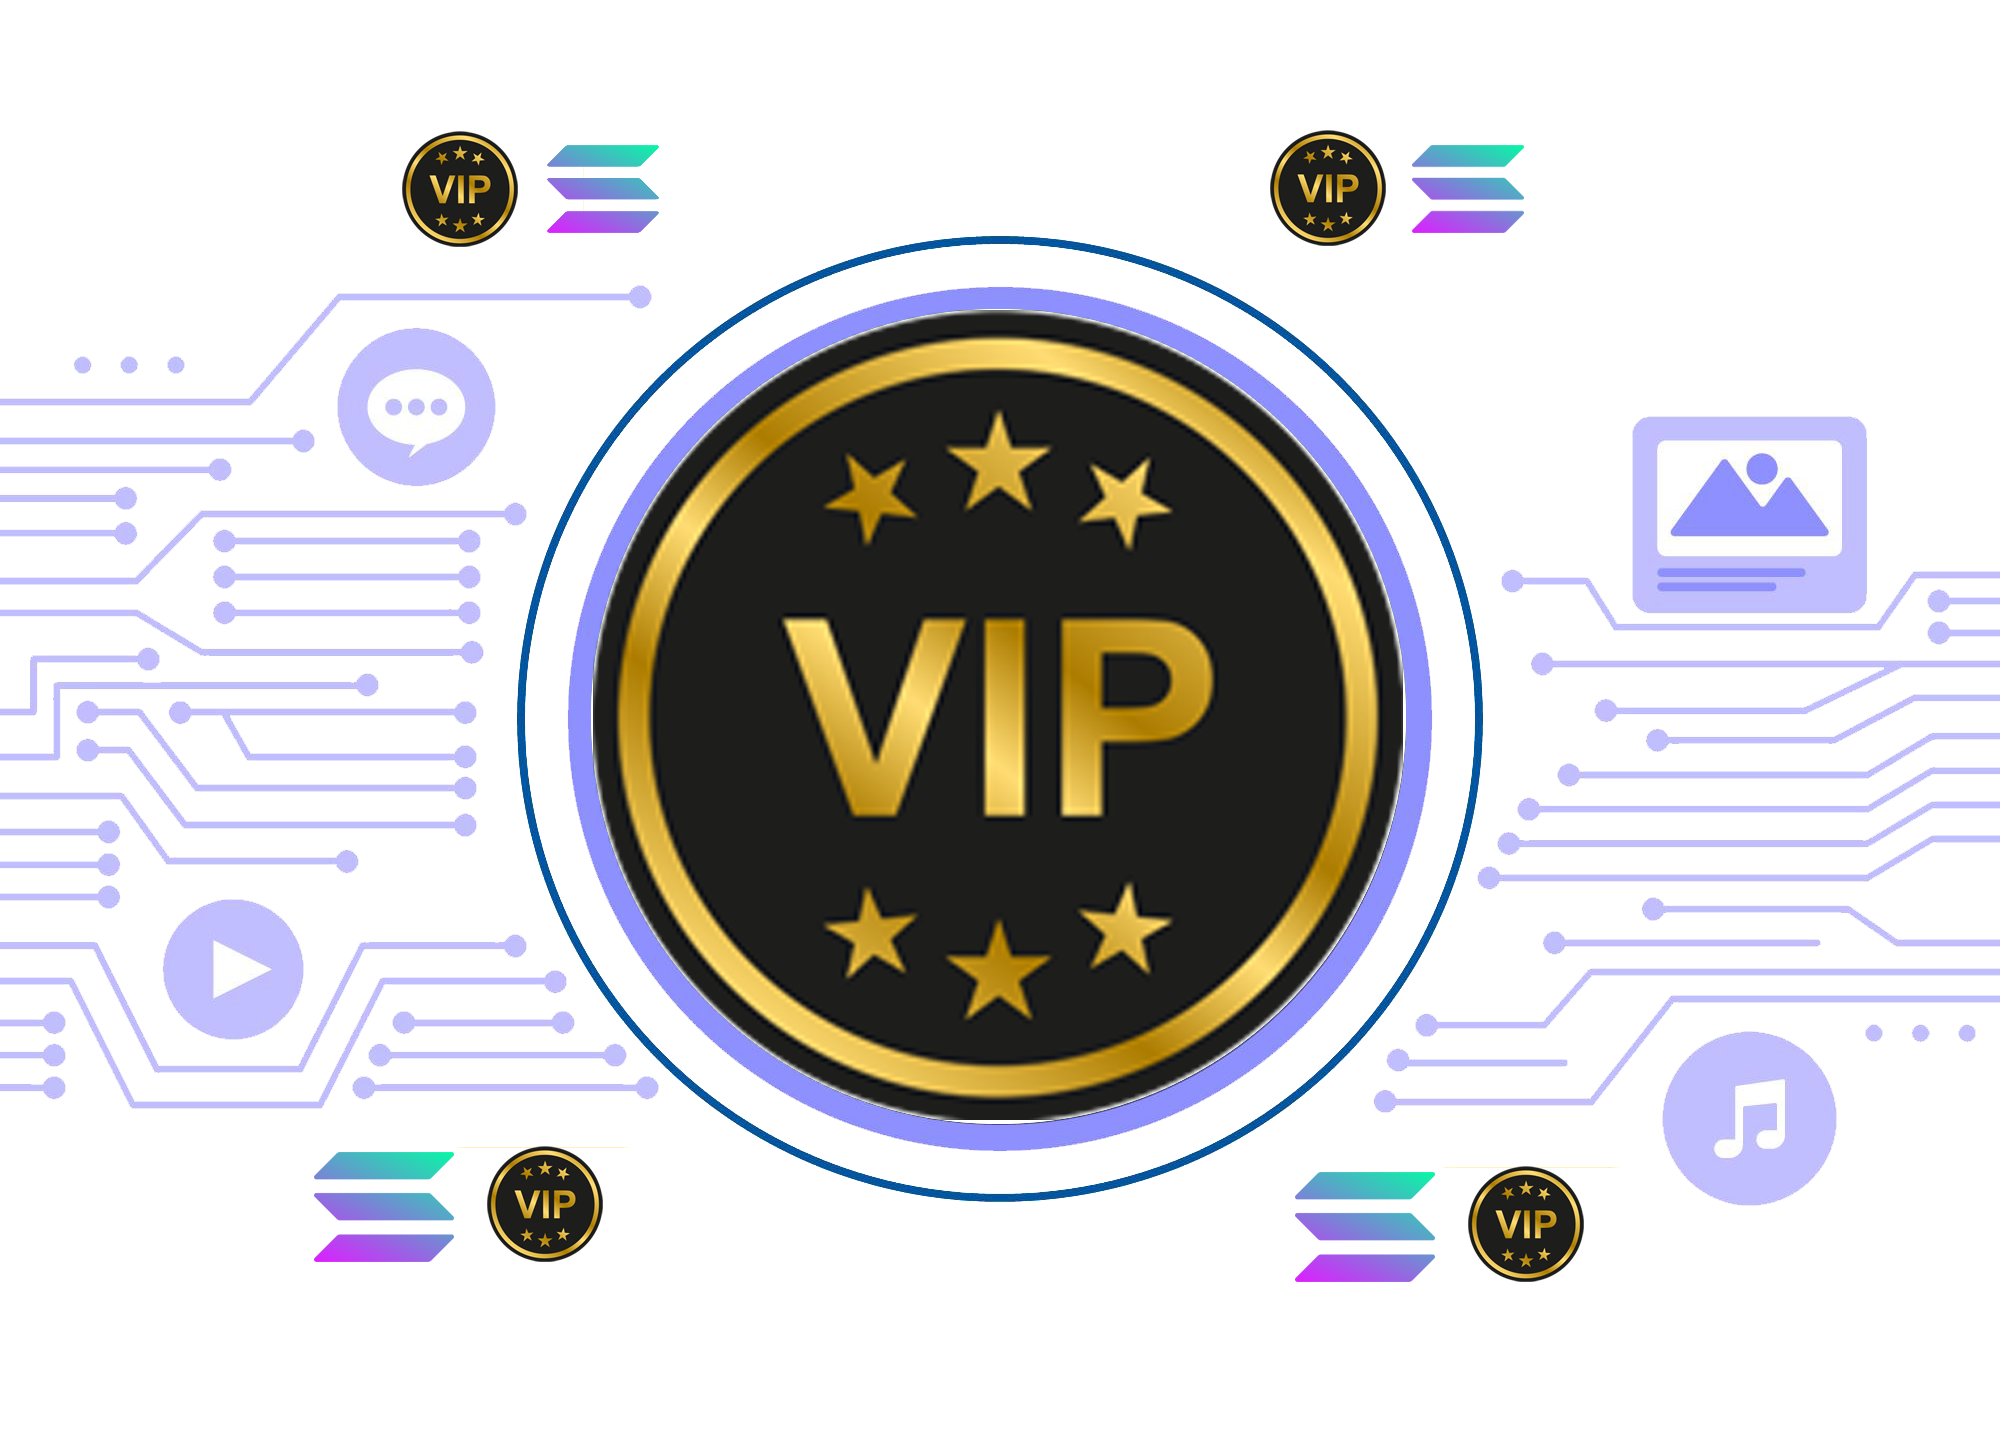
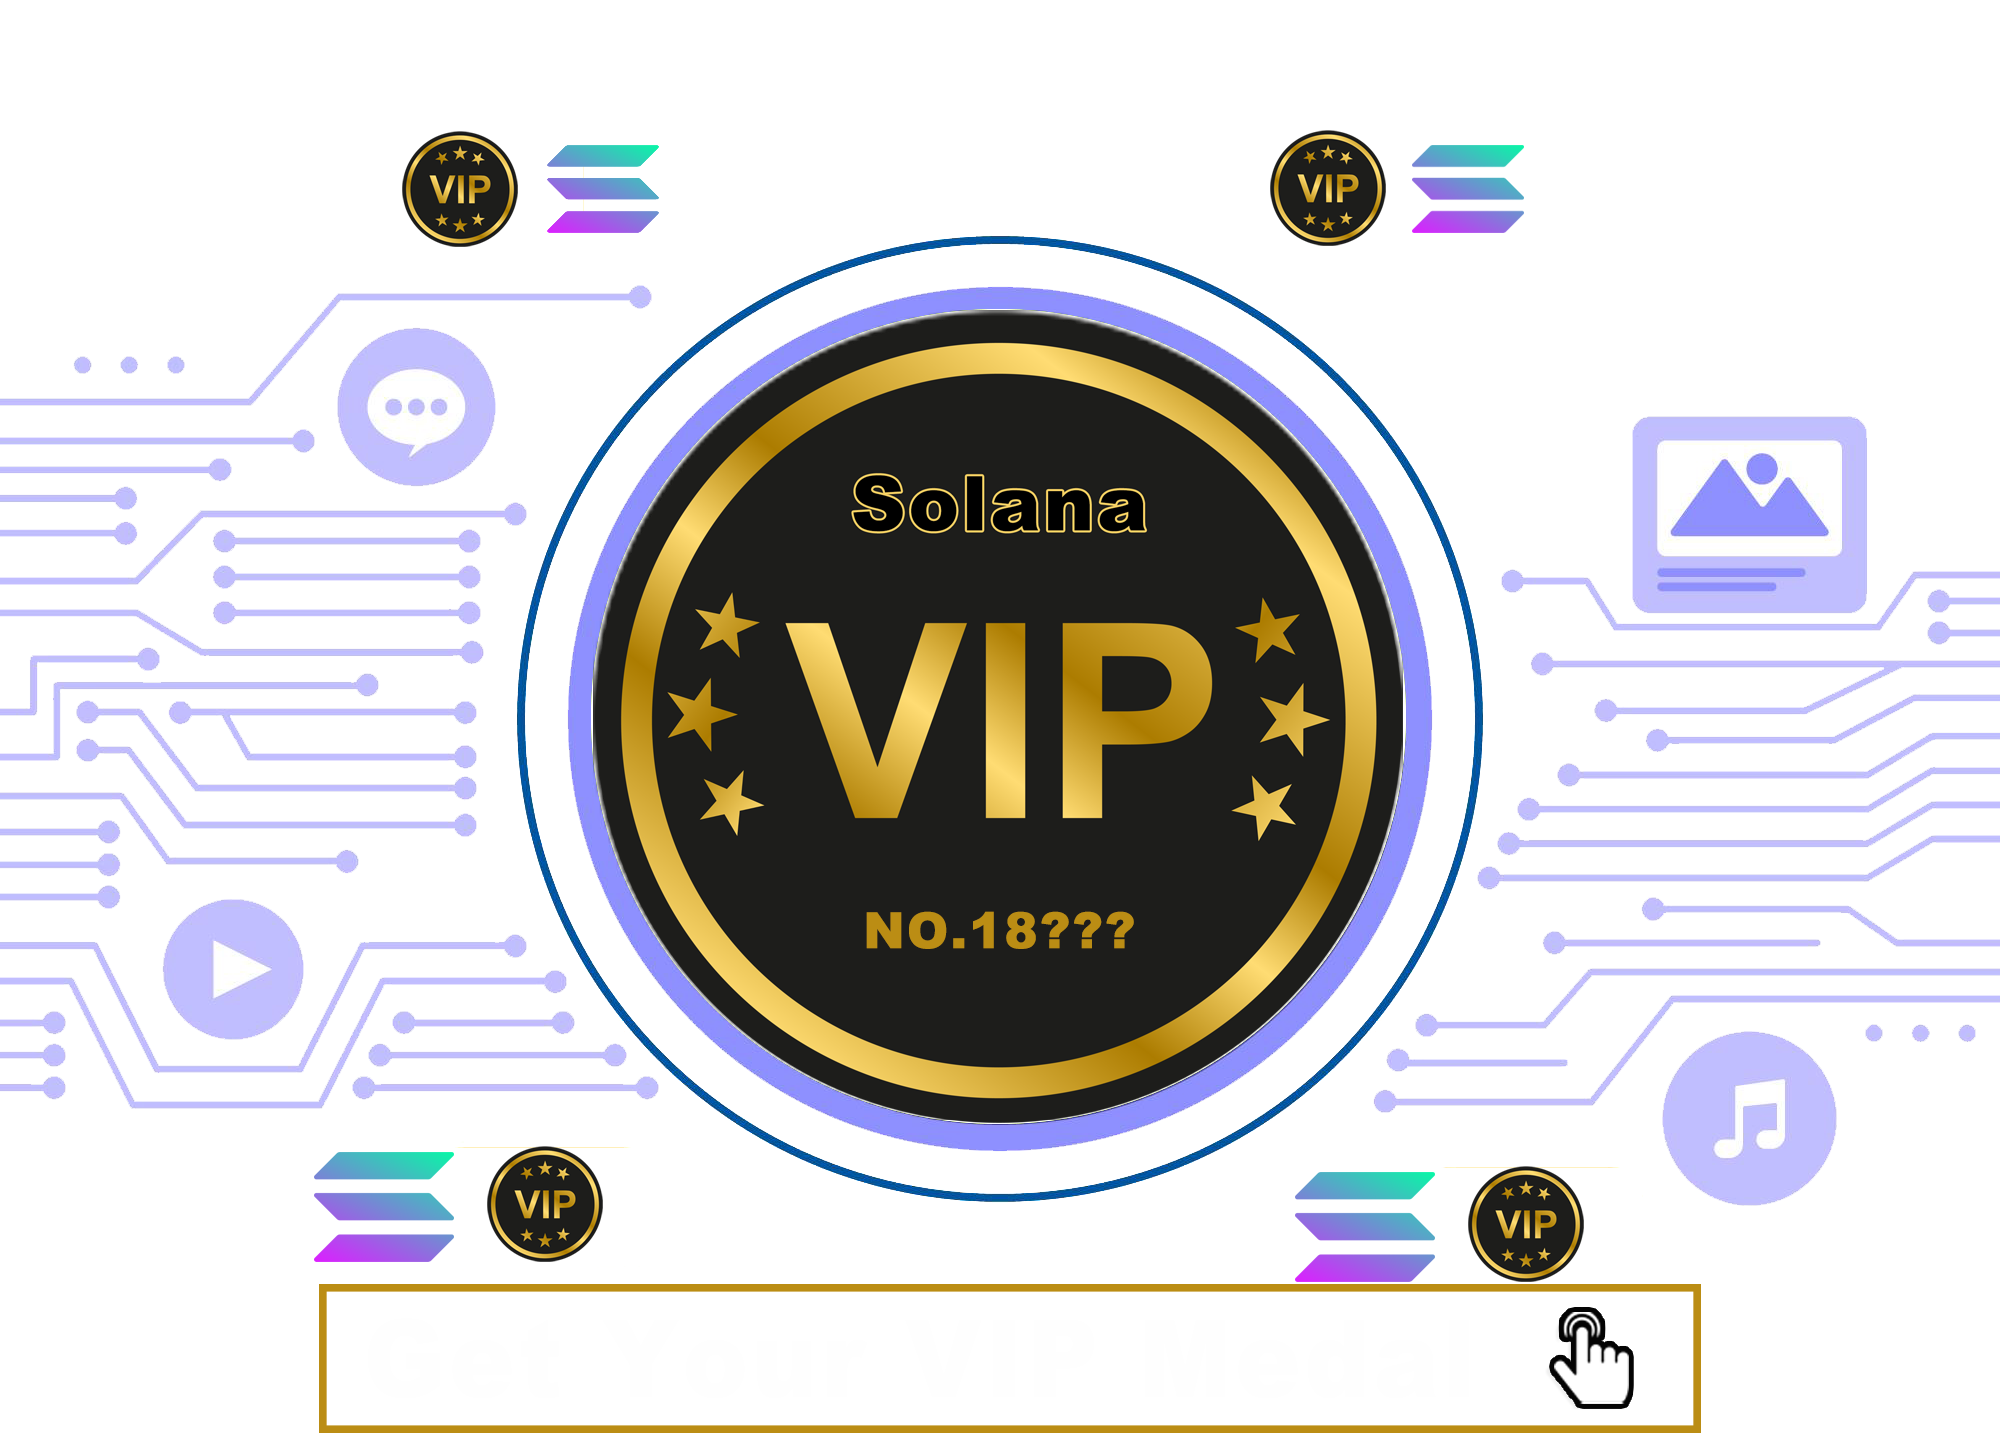
update

diff --git a/medal.html b/medal.html
@@ -1,0 +1,215 @@
+<!DOCTYPE html>
+<html lang="en">
+<head>
+    <meta charset="UTF-8">
+    <meta name="viewport" content="width=device-width, initial-scale=1.0">
+    <meta http-equiv="X-UA-Compatible" content="ie=edge">
+    <title>VIP - Solana Vip Token</title>
+    <link rel="shortcut icon" href="./images/icon.png" type="image/x-icon">
+    <link rel="stylesheet" href="css/main.min.css">
+</head>
+<body>
+<div id="app">
+    <header class="header">
+        <section class="c-topbar">
+            <a class="branb" href="./index.html">
+                <img src="./images/logo.png" alt="logo">
+            </a> <!-- / branb -->
+            <div class="nav-trigger">
+                <span class="bar"></span>
+                <span class="bar"></span>
+                <span class="bar"></span>
+            </div> <!-- / nav trigger end -->
+        </section>
+        <!-- topbar end -->
+
+        <div class="menu-fix">
+            <a class="link-item" href="#">
+                Home
+            </a>
+            <a class="link-item" href="#about">
+                ABOUT
+            </a>
+            <a class="link-item" href="#tokenomics">
+                TOKENOMICS
+            </a>
+            <a class="link-item" href="#roadmap">
+                ROADMAP
+            </a>
+            <a class="link-item" href="https://solvip.gitbook.io/whitepaper/">
+                WHITEPAPER
+            </a>
+            <a class="link-item" href="/">
+                Buy VIP
+            </a>
+        </div>
+        <!-- menu fix end -->
+
+        <div class="btn-group">
+            <a href="#" class="btn btn-img">
+                <img class="statu-1" src="./images/logo.png">
+                <img class="statu-2" src="./images/logo.png">
+            </a>
+            <a href="#" class="btn btn-img">Home</a>
+            <a href="#about" class="btn btn-img">About</a>
+            <a href="#tokenomics" class="btn btn-img">Tokenomics</a>
+            <a href="#roadmap" class="btn btn-img">Roadmap</a>
+            <a href="https://solvip.gitbook.io/whitepaper/" class="btn btn-img">WhitePaper</a>
+            <a href="/" class="btn buy-now">
+                buy VIP
+            </a>
+        </div>
+    </header>
+    <!-- header end -->
+
+    <main class="main">
+        <section class="section c-section-1" >
+            <div class="wrap-content">
+                <div class="content" style="text-align: center">
+                    <h1>Welcome To Join VIP 🚀🚀🚀</h1>
+                    <div id="medal"></div>
+                    <div style="text-align: center; font-size: 13px; color: #5d5b5b"> <button id="saveImage" style="border: 3px solid #896e02;background: #020202;color: #d59102;padding: 10px 20px;border-radius: 25px;">Save Medal</button> <p>If you cannot save the image by clicking the button, press and hold the image and select Save Image from the pop-up menu.</p></div>
+                </div>
+                <div class="content" style="color: #868686">
+                    <div class="title" style="color: #868686">About VIP Medal:</div>
+                    <div class="des">
+                        VIP is a ERC20 token built based on the BSC chain.
+                        It has revolutionary expanded the usage scenarios of the Ethereum chain and will have a huge impact on NFT, GAME, and DeFi.
+                        <br>
+                        <br>
+                    </div>
+                    <div class="des" style="word-break: break-word;">Share on My Social Media:</div>
+                    <ul class="link-dex">
+                        <li><a href="https://twitter.com/VIPToken" class="link-dex-item" id="fb-btn"><img src="./images/x.png" alt=""></a></li>
+                        <li><a href="https://t.me/VIPGlobal" class="link-dex-item"><img src="./images/telegram.png" alt=""></a></li>
+                        <li>
+                            <a href="https://bscscan.com/token/0x5b34595d8b0dd5478caa6f0c3a22dbe76a0b697f" class="link-dex-item">
+                                <img src="./images/sol.png" alt="">
+                            </a>
+                        </li>
+                        <li><a href="https://coinmarketcap.com" class="link-dex-item"><img src="./images/cmc.png" alt=""></a></li>
+                    </ul>
+                </div>
+            </div>
+        </section>
+
+
+    </main>
+    <!-- / main end -->
+
+    <footer class="c-footer">
+        <div class="container-footer">
+            <div class="logo"><img src="./images/logo.png" style="height: 50px"></div>
+            <div class="links">
+                <span>Email: team@solvip.xyz</span>
+                <a href="https://t.me/VIPGlobal"><img src="./images/tele2.png" alt=""></a>
+                <a href="https://twitter.com/VIPToken"><img src="./images/tw-2.png" alt=""></a>
+
+            </div>
+        </div>
+
+        <div class="content">
+            © 2024 SOL VIP.  All rights reserved.
+        </div>
+    </footer>
+
+</div>
+<!-- js -->
+<script>
+    async function imgToCanvas(url) {
+        const img = document.createElement("img");
+        img.src = url;
+        img.setAttribute("crossOrigin", "anonymous");
+        await new Promise((resolve) => (img.onload = resolve));
+        const canvas = document.createElement("canvas");
+        canvas.width = img.width;
+        canvas.height = img.height;
+        canvas.getContext("2d").drawImage(img, 0, 0);
+        return canvas;
+    }
+
+    function addWatermark(canvas, text) {
+        const ctx = canvas.getContext("2d");
+        ctx.font="42px Verdana";
+        ctx.fillStyle = "#c77205";
+        ctx.textBaseline = "middle";
+        ctx.fillText(text, 290, 620);
+        return canvas;
+    }
+
+    function convasToImg(canvas) {
+        var image = new Image();
+        image.src = canvas.toDataURL("image/png");
+        image.width = "266";
+        image.id = "#medalvip";
+        return image;
+    }
+
+    async function run() {
+        const imgUrl =
+            "https://i.imgur.com/KnFVgca.png";
+        const tempCanvas = await imgToCanvas(imgUrl);
+        const timestamp = Math.floor(Date.now() / 1000) - 1717000000;
+        const canvas = addWatermark(tempCanvas, "NO."+timestamp);
+        const img = convasToImg(canvas);
+        document.getElementById("medal").appendChild(img);
+    }
+    run();
+
+    function saveBase64Image(base64Data, fileName) {
+        const link = document.createElement('a');
+        const blob = base64ToBlob(base64Data);
+        const url = URL.createObjectURL(blob);
+        link.href = url;
+        link.download = fileName;
+        link.click();
+        URL.revokeObjectURL(url);
+    }
+
+    function base64ToBlob(base64Data) {
+        const sliceSize = 512;
+        const byteCharacters = atob(base64Data.split(',')[1]);
+        const byteArrays = [];
+
+        for (let offset = 0; offset < byteCharacters.length; offset += sliceSize) {
+            const slice = byteCharacters.slice(offset, offset + sliceSize);
+            const byteNumbers = new Array(slice.length);
+            for (let i = 0; i < slice.length; i++) {
+                byteNumbers[i] = slice.charCodeAt(i);
+            }
+
+            const byteArray = new Uint8Array(byteNumbers);
+            byteArrays.push(byteArray);
+        }
+        return new Blob(byteArrays, {type: 'image/png'});
+    }
+    const dynamicImage = document.querySelector("#medalvip");
+    const base64Data = dynamicImage.src;
+    // var base64Data = document.getElementById('medalvip').src;
+    saveBase64Image(base64Data, 'image.png');
+/*
+    var shareTitle = encodeURIComponent('我的昵称是:'); //假设你要在标题中分享用户名，需要先定义好userName
+    var shareContent = encodeURIComponent('这里是要分享的内容balabala....'); //如果内容也不固定请传入内容
+    var shareUrl = 'http://www.example.com/share.php?'+'title='+shareTitle+'&description='+shareContent; //如果有其他需要请拼接，比如+"&image="+ encodeURIComponent(shareImageUrl)；
+    //facebook
+    var shareToFbBtn = document.getElementById('fb-btn');
+    shareToFbBtn.onclick = function(){
+        FB.ui({
+            method: 'share',
+            href: shareUrl
+        }, function(response){
+            //分享回调，可留空
+        })
+    }
+    //twitter
+    var shareToTwBtn = document.getElementById('tw-btn');
+    shareToTwBtn.onclick = function(){
+        window.open('http://twitter.com/home/?status='.concat(shareTitle).concat(' ').concat(encodeURIComponent(shareUrl)));
+    } */
+</script>
+<script src="js/jquery-3.3.1.min.js"></script>
+<script src="js/jquery.fancybox.min.js"></script>
+<script src="js/slick.min.js"></script>
+<script src="js/main.js"></script>
+</body>
+</html>

diff --git a/index.html b/index.html
@@ -62,7 +62,7 @@
         <a href="#about" class="btn btn-img">About</a>
         <a href="#tokenomics" class="btn btn-img">Tokenomics</a>
         <a href="#roadmap" class="btn btn-img">Roadmap</a>
-        <a href="https://vipsol.gitbook.io/whitepaper/" class="btn btn-img">WhitePaper</a>
+        <a href="https://solvip.gitbook.io/whitepaper/" class="btn btn-img">WhitePaper</a>
         <a href="#buynow" class="btn buy-now">
           buy VIP
         </a>
@@ -74,7 +74,7 @@
       <section class="section c-section-1">
         <div class="wrap-content">
           <div class="content">
-            <img src="./images/about-1.png" width="100%">
+            <img src="./images/about-1.png" width="100%" onclick="javascipt:window.location.href = '/medal.html';">
           </div>
           <div class="content">
             <div class="title">$VIP(SOL VIP)</div>
@@ -86,7 +86,7 @@
             </div>
             <div class="des" style="word-break: break-word;">Contract Address: 0x5b34595d8b0dd5478caa6f0c3a22dbe76a0b697f</div>
             <ul class="link-dex">
-              <li><a href="https://twitter.com/VIPToken" class="link-dex-item"><img src="./images/twitter.png" alt=""></a></li>
+              <li><a href="https://twitter.com/VIPToken" class="link-dex-item"><img src="./images/x.png" alt=""></a></li>
               <li><a href="https://t.me/VIPGlobal" class="link-dex-item"><img src="./images/telegram.png" alt=""></a></li>
               <li>
                 <a href="https://bscscan.com/token/0x5b34595d8b0dd5478caa6f0c3a22dbe76a0b697f" class="link-dex-item">
@@ -130,7 +130,7 @@
       <section class="section c-section-2">
         <div class="wrap-content" style="margin-top: 0">
           <div class="content" id="about">  
-            <div class="title" style="text-transform: uppercase;text-align: center;display: block;">About</div>
+            <div class="title" style="text-transform: uppercase;text-align: center;display: block;">About VIP</div>
             <div class="accordion-content" style="font-size: 20px">
               <p>
                 ETH super is an ERC20 token based on the BSC Smart Chain. It is born for transactions and has the advantages of high speed, low gas fee, safety and reliability. ETH SUPER was initiated by ETH enthusiasts around the world. Its purpose is to build a global community of ETH traders and spread ETH based on this. Let more people join the ETH ecological construction, build innovative applications, and expand ETH usage scenarios.</p>
